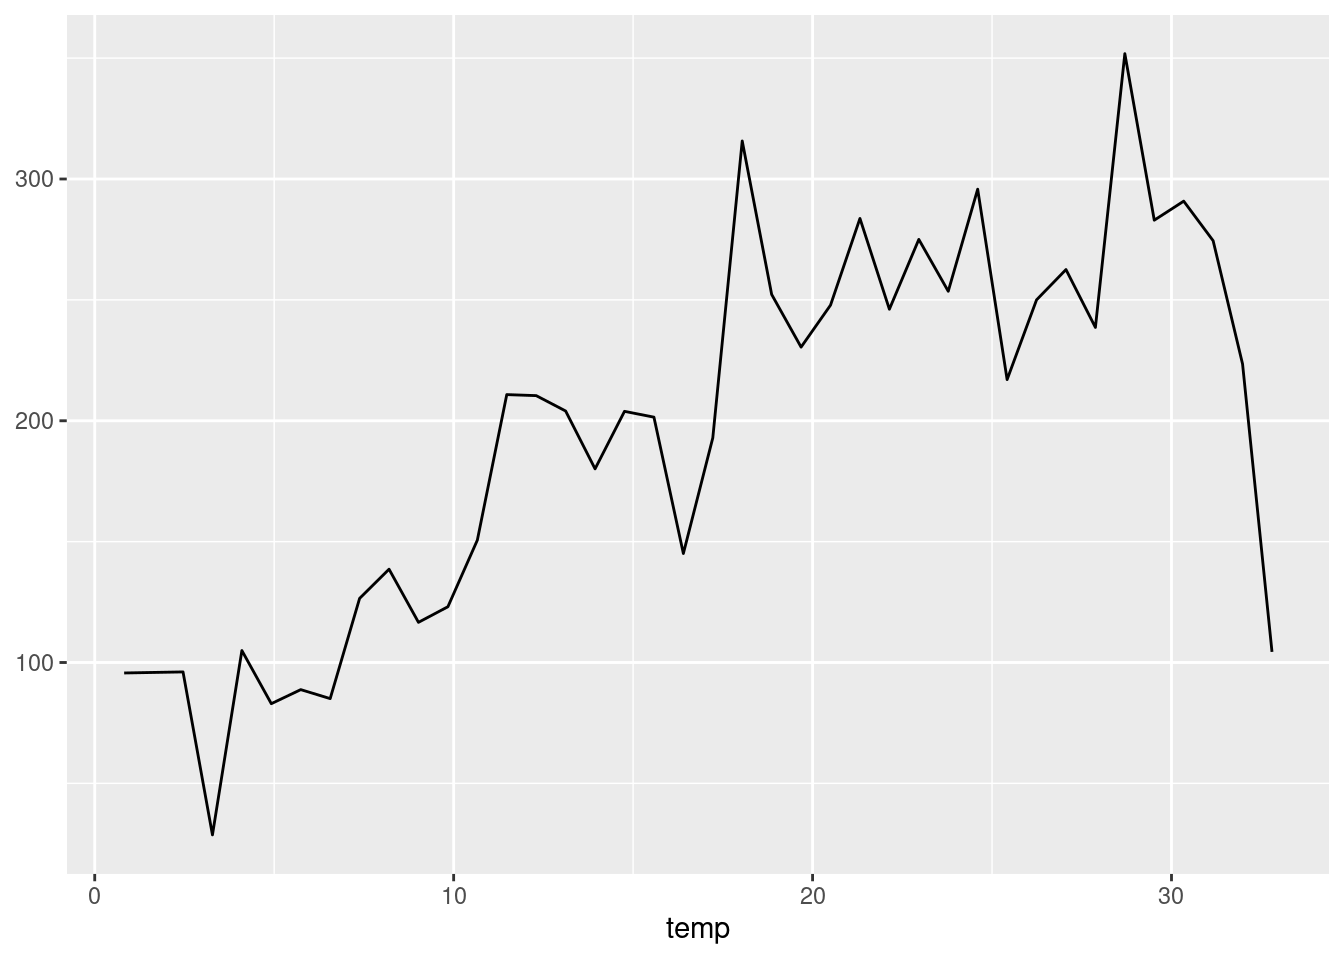
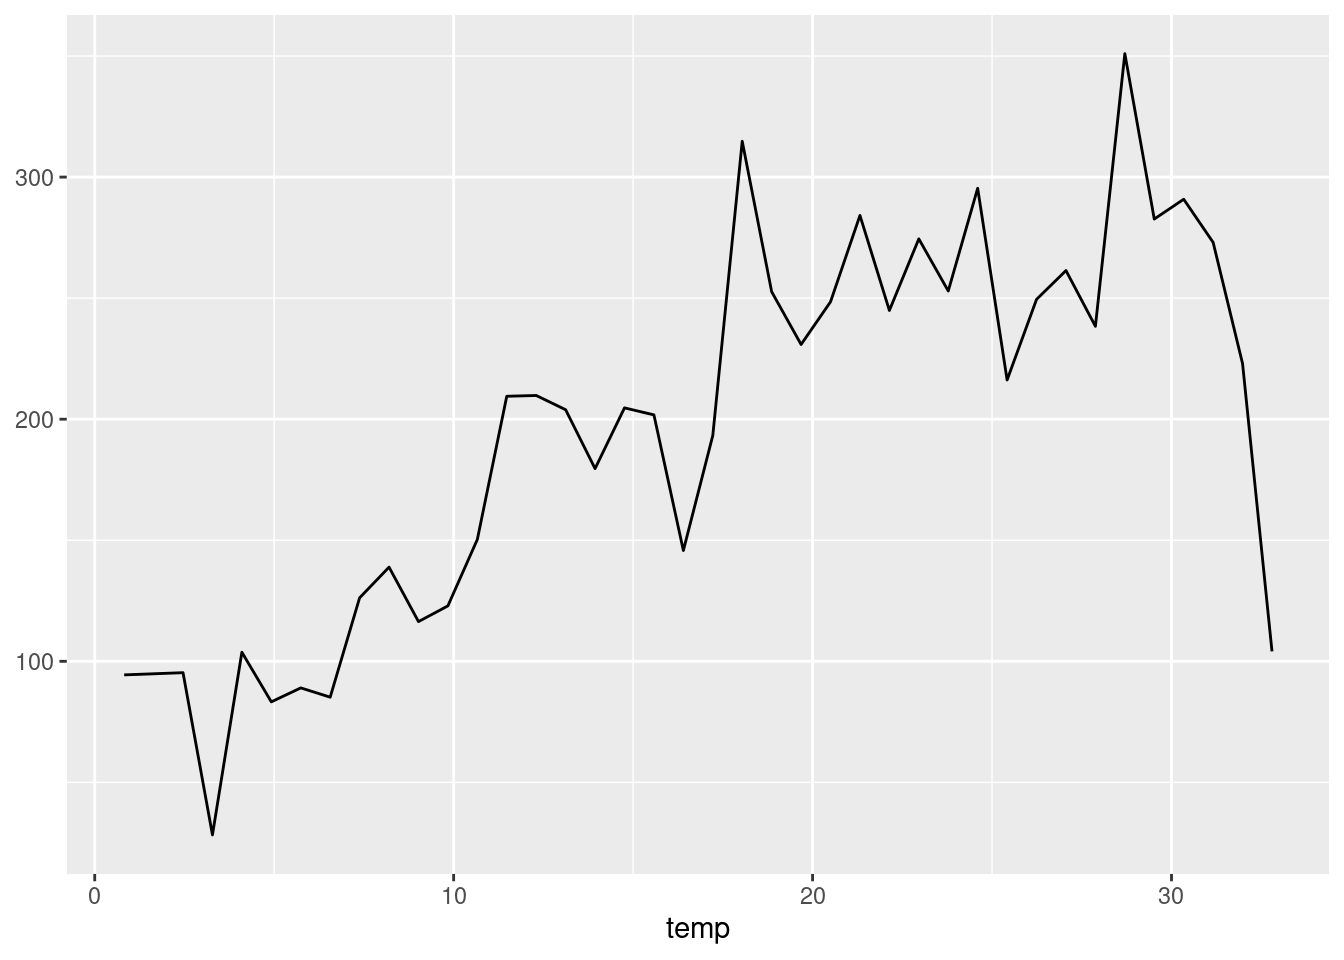
website

diff --git a/docs/articles/machine_learning.html b/docs/articles/machine_learning.html
@@ -585,11 +585,11 @@ Type:  numeric </code></pre>
 <pre><code>
            Term           Contrast Estimate
  bill_length_mm +1                    0.000
- island         Dream - Biscoe        0.227
- island         Torgersen - Biscoe   -2.209
- sex            male - female         2.605
- species        Chinstrap - Adelie    6.088
- species        Gentoo - Adelie       6.112
+ island         Dream - Biscoe        0.192
+ island         Torgersen - Biscoe   -2.064
+ sex            male - female         2.709
+ species        Chinstrap - Adelie    5.904
+ species        Gentoo - Adelie       5.888
 
 Columns: term, contrast, estimate 
 Type:  numeric </code></pre>
@@ -655,7 +655,7 @@ Type:  numeric </code></pre>
 <span><span class="va">models</span> <span class="op">&lt;-</span> <span class="fu"><a href="https://rdrr.io/r/base/list.html">list</a></span><span class="op">(</span></span>
 <span>  <span class="st">"Logit"</span> <span class="op">=</span> <span class="fu">logistic_reg</span><span class="op">(</span>mode <span class="op">=</span> <span class="st">"classification"</span>, engine <span class="op">=</span> <span class="st">"glm"</span><span class="op">)</span>,</span>
 <span>  <span class="st">"Random Forest"</span> <span class="op">=</span> <span class="fu">rand_forest</span><span class="op">(</span>mode <span class="op">=</span> <span class="st">"classification"</span>, engine <span class="op">=</span> <span class="st">"ranger"</span><span class="op">)</span>,</span>
-<span>  <span class="st">"XGBooost"</span> <span class="op">=</span> <span class="fu">boost_tree</span><span class="op">(</span>mode <span class="op">=</span> <span class="st">"classification"</span>, engine <span class="op">=</span> <span class="st">"xgboost"</span><span class="op">)</span></span>
+<span>  <span class="st">"XGBoost"</span> <span class="op">=</span> <span class="fu">boost_tree</span><span class="op">(</span>mode <span class="op">=</span> <span class="st">"classification"</span>, engine <span class="op">=</span> <span class="st">"xgboost"</span><span class="op">)</span></span>
 <span><span class="op">)</span></span>
 <span></span>
 <span><span class="co"># fit to data</span></span>
@@ -682,7 +682,7 @@ Type:  numeric </code></pre>
 <th style="text-align: left;" data-quarto-table-cell-role="th"></th>
 <th style="text-align: center;" data-quarto-table-cell-role="th">Logit</th>
 <th style="text-align: center;" data-quarto-table-cell-role="th">Random Forest</th>
-<th style="text-align: center;" data-quarto-table-cell-role="th">&nbsp;XGBooost</th>
+<th style="text-align: center;" data-quarto-table-cell-role="th">&nbsp;XGBoost</th>
 </tr></thead>
 <tbody>
 <tr class="odd">
@@ -690,7 +690,7 @@ Type:  numeric </code></pre>
 <td style="text-align: left;">+1</td>
 <td style="text-align: left;">female</td>
 <td style="text-align: center;">−0.101</td>
-<td style="text-align: center;">−0.062</td>
+<td style="text-align: center;">−0.059</td>
 <td style="text-align: center;">−0.075</td>
 </tr>
 <tr class="even">
@@ -706,7 +706,7 @@ Type:  numeric </code></pre>
 <td style="text-align: left;"></td>
 <td style="text-align: left;">male</td>
 <td style="text-align: center;">0.101</td>
-<td style="text-align: center;">0.062</td>
+<td style="text-align: center;">0.059</td>
 <td style="text-align: center;">0.075</td>
 </tr>
 <tr class="even">
@@ -754,7 +754,7 @@ Type:  numeric </code></pre>
 <td style="text-align: left;">Torgersen - Biscoe</td>
 <td style="text-align: left;">female</td>
 <td style="text-align: center;">0.015</td>
-<td style="text-align: center;">−0.063</td>
+<td style="text-align: center;">−0.053</td>
 <td style="text-align: center;">0.008</td>
 </tr>
 <tr class="even">
@@ -770,7 +770,7 @@ Type:  numeric </code></pre>
 <td style="text-align: left;"></td>
 <td style="text-align: left;">male</td>
 <td style="text-align: center;">−0.015</td>
-<td style="text-align: center;">0.063</td>
+<td style="text-align: center;">0.053</td>
 <td style="text-align: center;">−0.008</td>
 </tr>
 <tr class="even">
@@ -786,7 +786,7 @@ Type:  numeric </code></pre>
 <td style="text-align: left;">Chinstrap - Adelie</td>
 <td style="text-align: left;">female</td>
 <td style="text-align: center;">0.562</td>
-<td style="text-align: center;">0.166</td>
+<td style="text-align: center;">0.161</td>
 <td style="text-align: center;">0.441</td>
 </tr>
 <tr class="even">
@@ -802,7 +802,7 @@ Type:  numeric </code></pre>
 <td style="text-align: left;"></td>
 <td style="text-align: left;">male</td>
 <td style="text-align: center;">−0.562</td>
-<td style="text-align: center;">−0.166</td>
+<td style="text-align: center;">−0.161</td>
 <td style="text-align: center;">−0.441</td>
 </tr>
 <tr class="even">
@@ -818,7 +818,7 @@ Type:  numeric </code></pre>
 <td style="text-align: left;">Gentoo - Adelie</td>
 <td style="text-align: left;">female</td>
 <td style="text-align: center;">0.453</td>
-<td style="text-align: center;">0.110</td>
+<td style="text-align: center;">0.121</td>
 <td style="text-align: center;">0.361</td>
 </tr>
 <tr class="even">
@@ -834,7 +834,7 @@ Type:  numeric </code></pre>
 <td style="text-align: left;"></td>
 <td style="text-align: left;">male</td>
 <td style="text-align: center;">−0.453</td>
-<td style="text-align: center;">−0.110</td>
+<td style="text-align: center;">−0.121</td>
 <td style="text-align: center;">−0.361</td>
 </tr>
 <tr class="even">
@@ -899,37 +899,37 @@ Type:  numeric </code></pre>
 <pre><code>
        Term      Contrast Estimate
  count      +1               0.000
- holiday    False - True    13.101
- humidity   +1             -23.369
- month      +1               3.902
- season     spring - fall  -29.587
- season     summer - fall   -8.385
- season     winter - fall    3.458
- temp       +1               3.701
- weather    misty - clear   -7.973
- weather    rain - clear   -59.693
- weekday    Fri - Sun       69.059
- weekday    Mon - Sun       77.247
- weekday    Sat - Sun       20.396
- weekday    Thu - Sun       84.326
- weekday    Tue - Sun       83.109
- weekday    Wed - Sun       85.338
- windspeed  +1               0.136
- workingday False - True  -190.696
- year       1 - 0           97.664
+ holiday    False - True     9.846
+ humidity   +1             -23.096
+ month      +1               3.999
+ season     spring - fall  -32.679
+ season     summer - fall   -8.901
+ season     winter - fall    3.142
+ temp       +1               3.419
+ weather    misty - clear   -7.935
+ weather    rain - clear   -61.515
+ weekday    Fri - Sun       69.513
+ weekday    Mon - Sun       78.999
+ weekday    Sat - Sun       24.362
+ weekday    Thu - Sun       85.984
+ weekday    Tue - Sun       84.784
+ weekday    Wed - Sun       86.862
+ windspeed  +1               0.179
+ workingday False - True  -193.187
+ year       1 - 0           98.195
 
 Columns: term, contrast, estimate 
 Type:  response </code></pre>
 </div>
 </div>
-<p>These results are easy to interpret: An increase of 1 degree Celsius in the temperature is associated with an increase of 3.701 bikes rented per hour.</p>
+<p>These results are easy to interpret: An increase of 1 degree Celsius in the temperature is associated with an increase of 3.419 bikes rented per hour.</p>
 <p>We could obtain the same result manually as follows:</p>
 <div class="cell">
 <div class="sourceCode" id="cb16"><pre class="downlit sourceCode r code-with-copy"><code class="sourceCode R"><span><span class="va">lo</span> <span class="op">&lt;-</span> <span class="fu"><a href="https://rdrr.io/r/base/transform.html">transform</a></span><span class="op">(</span><span class="va">bikes</span>, temp <span class="op">=</span> <span class="va">temp</span> <span class="op">-</span> <span class="fl">0.5</span><span class="op">)</span></span>
 <span><span class="va">hi</span> <span class="op">&lt;-</span> <span class="fu"><a href="https://rdrr.io/r/base/transform.html">transform</a></span><span class="op">(</span><span class="va">bikes</span>, temp <span class="op">=</span> <span class="va">temp</span> <span class="op">+</span> <span class="fl">0.5</span><span class="op">)</span></span>
 <span><span class="fu"><a href="https://rdrr.io/r/base/mean.html">mean</a></span><span class="op">(</span><span class="fu"><a href="https://rdrr.io/r/stats/predict.html">predict</a></span><span class="op">(</span><span class="va">forest</span>, newdata <span class="op">=</span> <span class="va">hi</span><span class="op">)</span> <span class="op">-</span> <span class="fu"><a href="https://rdrr.io/r/stats/predict.html">predict</a></span><span class="op">(</span><span class="va">forest</span>, newdata <span class="op">=</span> <span class="va">lo</span><span class="op">)</span><span class="op">)</span></span></code><button title="Copy to Clipboard" class="code-copy-button"><i class="bi"></i></button></pre></div>
 <div class="cell-output cell-output-stdout">
-<pre><code>[1] 3.70069</code></pre>
+<pre><code>[1] 3.419472</code></pre>
 </div>
 </div>
 <section id="fmeffects-forward-or-centered-effects" class="level3" data-number="19.2.1"><h3 data-number="19.2.1" class="anchored" data-anchor-id="fmeffects-forward-or-centered-effects">
@@ -943,7 +943,7 @@ Type:  response </code></pre>
 <div class="cell-output cell-output-stdout">
 <pre><code>
  Term Contrast Estimate
- temp   custom     2.43
+ temp   custom     2.41
 
 Columns: term, contrast, estimate 
 Type:  response </code></pre>
@@ -958,7 +958,7 @@ Type:  response </code></pre>
 <span>    feature <span class="op">=</span> <span class="st">"temp"</span>,</span>
 <span>    step.size <span class="op">=</span> <span class="fl">1</span><span class="op">)</span><span class="op">$</span><span class="va">ame</span> </span></code><button title="Copy to Clipboard" class="code-copy-button"><i class="bi"></i></button></pre></div>
 <div class="cell-output cell-output-stdout">
-<pre><code>[1] 2.434684</code></pre>
+<pre><code>[1] 2.414882</code></pre>
 </div>
 </div>
 <p>With <code><a href="https://rdrr.io/pkg/marginaleffects/man/comparisons.html">marginaleffects::avg_comparisons()</a></code>, we can also compute the average effect of a simultaneous change in multiple predictors, using the <code>variables</code> and <code>cross</code> arguments. In this example, we see what happens (on average) to the predicted outcome when the <code>temp</code>, <code>season</code>, and <code>weather</code> predictors all change together:</p>
@@ -971,12 +971,12 @@ Type:  response </code></pre>
 <div class="cell-output cell-output-stdout">
 <pre><code>
  Estimate     C: season C: temp    C: weather
-  -33.256 spring - fall      +1 misty - clear
-  -76.451 spring - fall      +1 rain - clear 
-  -12.461 summer - fall      +1 misty - clear
-  -62.248 summer - fall      +1 rain - clear 
-   -0.937 winter - fall      +1 misty - clear
-  -54.656 winter - fall      +1 rain - clear 
+    -36.7 spring - fall      +1 misty - clear
+    -79.7 spring - fall      +1 rain - clear 
+    -13.0 summer - fall      +1 misty - clear
+    -64.5 summer - fall      +1 rain - clear 
+     -1.0 winter - fall      +1 misty - clear
+    -57.3 winter - fall      +1 rain - clear 
 
 Columns: term, contrast_season, contrast_temp, contrast_weather, estimate 
 Type:  response </code></pre>
@@ -1014,8 +1014,8 @@ Type:  response </code></pre>
 <div class="sourceCode" id="cb27"><pre class="downlit sourceCode r code-with-copy"><code class="sourceCode R"><span><span class="fu"><a href="https://rdrr.io/pkg/marginaleffects/man/plot_predictions.html">plot_predictions</a></span><span class="op">(</span><span class="va">forest</span>, by <span class="op">=</span> <span class="st">"temp"</span>, newdata <span class="op">=</span> <span class="va">d</span><span class="op">)</span> <span class="op">+</span></span>
 <span>    <span class="fu"><a href="https://ggplot2.tidyverse.org/reference/geom_point.html">geom_point</a></span><span class="op">(</span>data <span class="op">=</span> <span class="va">bikes</span>, <span class="fu"><a href="https://ggplot2.tidyverse.org/reference/aes.html">aes</a></span><span class="op">(</span>x <span class="op">=</span> <span class="va">temp</span>, y <span class="op">=</span> <span class="va">count</span><span class="op">)</span>, alpha <span class="op">=</span> <span class="fl">0.1</span><span class="op">)</span> <span class="op">+</span></span>
 <span>    <span class="fu"><a href="https://ggplot2.tidyverse.org/reference/geom_smooth.html">geom_smooth</a></span><span class="op">(</span>data <span class="op">=</span> <span class="va">bikes</span>, <span class="fu"><a href="https://ggplot2.tidyverse.org/reference/aes.html">aes</a></span><span class="op">(</span>x <span class="op">=</span> <span class="va">temp</span>, y <span class="op">=</span> <span class="va">count</span><span class="op">)</span>, se <span class="op">=</span> <span class="cn">FALSE</span>, color <span class="op">=</span> <span class="st">"orange"</span><span class="op">)</span> <span class="op">+</span></span>
-<span>    <span class="fu"><a href="https://ggplot2.tidyverse.org/reference/labs.html">labs</a></span><span class="op">(</span>x <span class="op">=</span> <span class="st">"Temperature (Celcius)"</span>, y <span class="op">=</span> <span class="st">"Predicted number of bikes rented per hour"</span>,</span>
-<span>         title <span class="op">=</span> <span class="st">"Black: random forest predictions. Green: LOESS smoother."</span><span class="op">)</span> <span class="op">+</span></span>
+<span>    <span class="fu"><a href="https://ggplot2.tidyverse.org/reference/labs.html">labs</a></span><span class="op">(</span>x <span class="op">=</span> <span class="st">"Temperature (Celsius)"</span>, y <span class="op">=</span> <span class="st">"Predicted number of bikes rented per hour"</span>,</span>
+<span>         title <span class="op">=</span> <span class="st">"Black: random forest predictions. Orange: LOESS smoother."</span><span class="op">)</span> <span class="op">+</span></span>
 <span>    <span class="fu"><a href="https://ggplot2.tidyverse.org/reference/ggtheme.html">theme_bw</a></span><span class="op">(</span><span class="op">)</span></span></code><button title="Copy to Clipboard" class="code-copy-button"><i class="bi"></i></button></pre></div>
 <div class="cell-output cell-output-stderr">
 <pre><code>`geom_smooth()` using method = 'loess' and formula = 'y ~ x'</code></pre>
